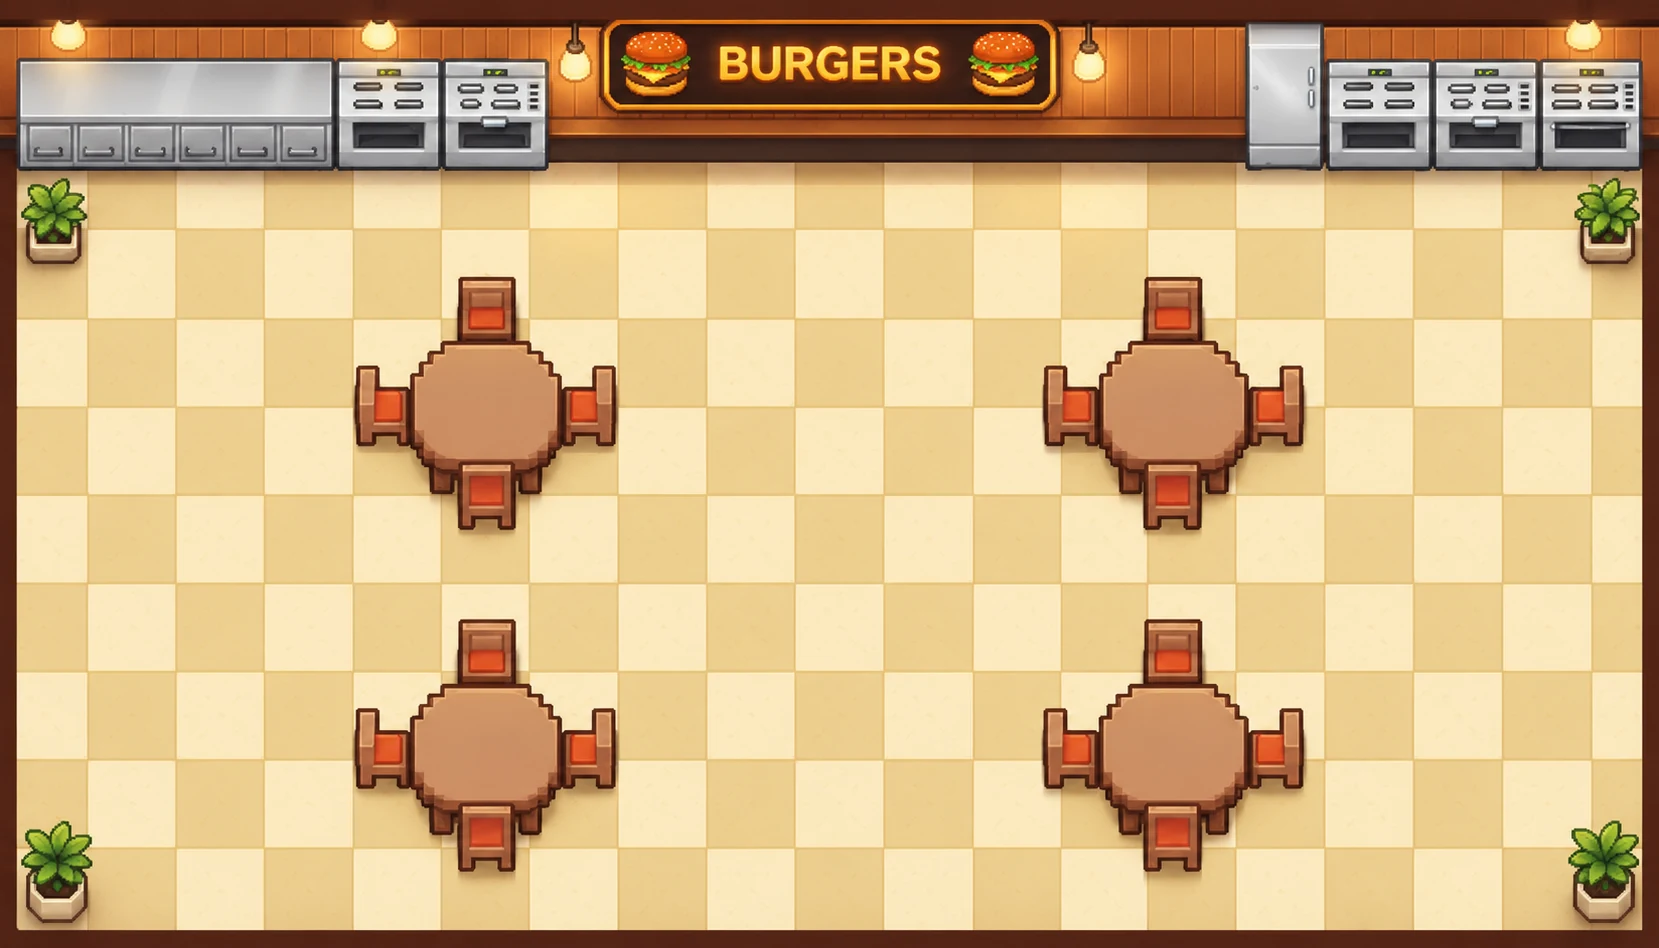
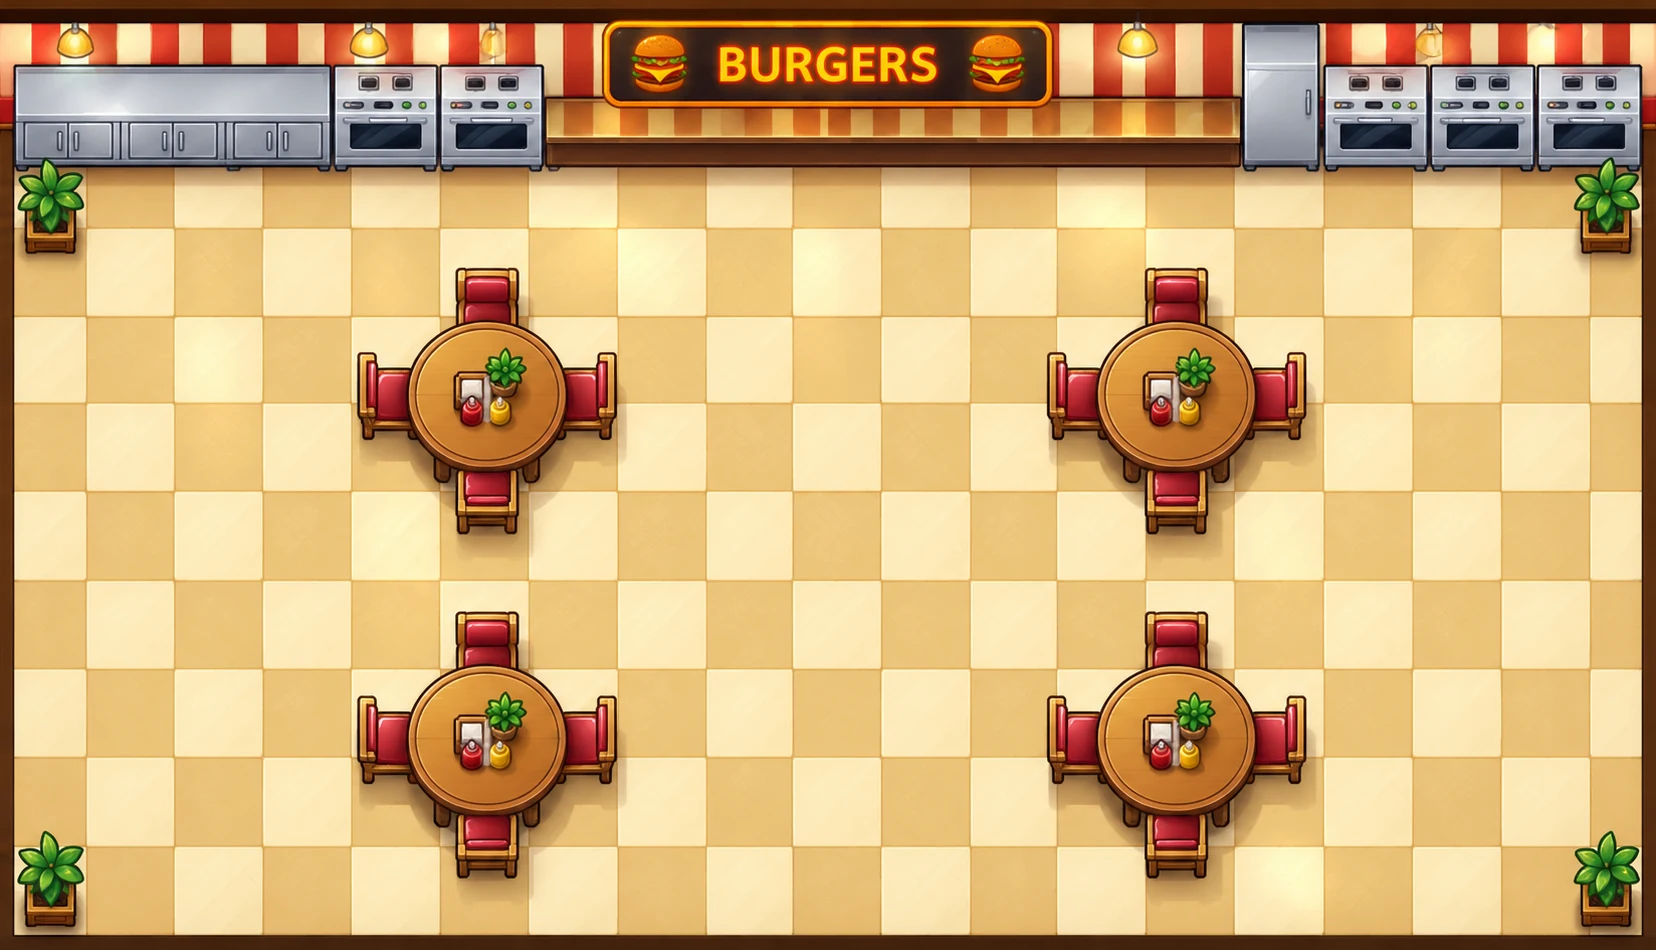
Burger: painted school background, new diner background, painted teacher/coach/director
Claude-Session: https://claude.ai/code/session_01ULB8fjd79C8Gr4zLyvVyMg

diff --git a/burger/index.html b/burger/index.html
@@ -137,7 +137,7 @@ html{-webkit-text-size-adjust:100%;text-size-adjust:100%;overscroll-behavior:non
 const BROKER='wss://broker.emqx.io:8084/mqtt', NS='byd-burger/v1/', GAME_SECS=30, BURGERS=7;
 const AW=1500,AH=860,TOP=150;
 const DINER_T=[{x:440,y:370,r:70},{x:1060,y:370,r:70},{x:440,y:680,r:70},{x:1060,y:680,r:70}];
-const SCHOOL_R=[...[380,750,1120].flatMap(cx=>[400,650].map(cy=>({x:cx-85,y:cy-38,w:170,h:76}))),{x:620,y:168,w:260,h:68}];
+const SCHOOL_R=[...[374,749,1124].flatMap(cx=>[384,618].map(cy=>({x:cx-95,y:cy-43,w:190,h:86}))),{x:612,y:160,w:276,h:84}];
 const LOCS={rifts3:{icon:'⚔',goal:0,secs:45},fish:{icon:'🎣',goal:0,secs:45},nights:{icon:'🌲',goal:0,secs:45},steal:{icon:'💎',goal:0,secs:45},arena:{icon:'🥊',goal:0,secs:45},blade:{icon:'🔥',goal:0,secs:45},hospital:{icon:'🏥',goal:0,secs:45},bike:{icon:'🚲',goal:0,secs:85},race:{icon:'🏎',goal:0,secs:45},sniper:{icon:'🎯',goal:0,secs:45},pizza:{icon:'🍕',goal:0,secs:45},ghost:{icon:'👻',goal:0,secs:45},balloon:{icon:'🎈',goal:0,secs:45},dino:{icon:'🦖',goal:0,secs:45},pirate:{icon:'🏴☠',goal:0,secs:45},train:{icon:'🚂',goal:0,secs:45},diner:{icon:'🍔',goal:7,secs:30},school:{icon:'🦶',goal:7,secs:45},soccer:{icon:'⚽',goal:5,secs:45},snow:{icon:'❄',goal:10,secs:60},box:{icon:'🥊',goal:0,secs:45},villain:{icon:'🦹',goal:20,secs:60}};
 const VROUNDS=3,VMAPS={park:[{x:750,y:520,r:100},{x:330,y:360,r:58},{x:1170,y:360,r:50},{x:330,y:715,r:44},{x:1170,y:715,r:44}],space:[{x:750,y:520,r:92},{x:360,y:350,r:52},{x:1140,y:350,r:52},{x:360,y:715,r:48},{x:1140,y:715,r:48}]};let VM='park';let TM='team';const GMS={},MP={},GART={},GCONE={};let gmV=null;const GM=()=>GMS[LOC];function mapOf(l){l=l||LOC;if(l==='train')return MP.train==='farm'?'farm':'west';if(l==='soccer')return MP.soccer==='beach'?'beach':'stadium';const g=GMS[l];return g?(MP[l]&&g.maps.includes(MP[l])?MP[l]:g.maps[0]):''}
 const TRAPS=['banana','glue','cake','stink','spring','rev'],TRAP_IC={banana:'🍌',glue:'🍯',cake:'🎂',stink:'💨',spring:'🌀',rev:'🔄'};
@@ -553,9 +553,12 @@ function teacherSprite(k,st,f){const key=k+'|'+st+'|'+f;if(tSpriteCache[key])ret
 function tHeadTop(k){const B=TBODY[k];return B.hy-B.hr-(k==='teach'?20:8)}
 function drawCone(g,tv){if(tv.st===2||GCONE[tv.k]===0)return;const R=GCONE[tv.k]?(tv.st===1?GCONE[tv.k]*1.4:GCONE[tv.k]):tv.k==='mach'?(tv.st===1?430:300):tv.st===1?380:290,a=tv.a;g.fillStyle=tv.st===1?'rgba(255,60,40,.24)':'rgba(255,215,80,.17)';
   g.beginPath();g.moveTo(tv.x,tv.y-10);g.arc(tv.x,tv.y-10,R,a-.87,a+.87);g.closePath();g.fill();g.strokeStyle=tv.st===1?'rgba(255,60,40,.5)':'rgba(255,215,80,.35)';g.lineWidth=3;g.stroke()}
-function drawTeacher(g,tv,t){if(GART[tv.k]){GART[tv.k](g,tv,t);return}const f=tv.st===0?1+Math.floor((t*9)%6):0,jump=tv.st===2?Math.abs(Math.sin(t*12))*24:0;
-  g.save();g.translate(tv.x,tv.y-jump);if(Math.cos(tv.a)<0)g.scale(-1,1);g.drawImage(teacherSprite(tv.k,tv.st,f),-90,-255,180,270);g.restore();
-  const hy=tv.y+tHeadTop(tv.k)-jump;
+const VILM={"dir":{"top":[328,328,329,328,329,316,305],"idle":4},"pe":{"top":[338,328,329,329,329,309,277],"idle":2},"teach":{"top":[350,329,330,330,329,326,292],"idle":4}},VILH={teach:150,pe:166,dir:162},VILI={};for(const k in VILM){const i=new Image();i.src='img/v_'+k+'.webp';VILI[k]=i}
+function drawTeacher(g,tv,t){if(GART[tv.k]){GART[tv.k](g,tv,t);return}const f=tv.st===0?1+Math.floor((t*9)%6):0,jump=tv.st===2?Math.abs(Math.sin(t*12))*24:0;let hy;
+  const vi=VILI[tv.k];if(vi&&vi.complete&&vi.naturalWidth){const m=VILM[tv.k],u=VILH[tv.k]/330,fi=tv.st===2?6:tv.st===1?5:tv.moving===false?m.idle:1+Math.floor(t*4.5)%4;
+    g.save();g.translate(tv.x,tv.y);g.fillStyle='rgba(0,0,0,.25)';g.beginPath();g.ellipse(0,0,tv.k==='dir'?40:34,10,0,0,7);g.fill();g.translate(0,-jump);if(Math.cos(tv.a)<0)g.scale(-1,1);g.drawImage(vi,fi*400,0,400,360,-200*u,-350*u,400*u,360*u);g.restore();hy=tv.y-m.top[fi]*u+8-jump}
+  else{g.save();g.translate(tv.x,tv.y-jump);if(Math.cos(tv.a)<0)g.scale(-1,1);g.drawImage(teacherSprite(tv.k,tv.st,f),-90,-255,180,270);g.restore();
+  hy=tv.y+tHeadTop(tv.k)-jump}
   if(tv.st===2){const s=T('ouch');g.font='900 30px Rubik, sans-serif';g.textAlign='center';g.textBaseline='middle';g.direction=/[֐-׿]/.test(s)?'rtl':'ltr';const w=g.measureText(s).width+26;
     g.fillStyle='#fff';g.strokeStyle=OUT;g.lineWidth=3;g.beginPath();g.roundRect?g.roundRect(tv.x-w/2,hy-58,w,44,16):g.rect(tv.x-w/2,hy-58,w,44);g.fill();g.stroke();g.fillStyle='#e8412c';g.fillText(s,tv.x,hy-35)}
   else if(tv.st===1){g.font='900 46px Rubik, sans-serif';g.textAlign='center';g.textBaseline='middle';g.lineWidth=6;g.strokeStyle='#fff';g.strokeText('!',tv.x,hy-30);g.fillStyle='#e8412c';g.fillText('!',tv.x,hy-30)}}
@@ -765,7 +768,8 @@ function drawCageFront(g,t,cx,cy){const x=cx??CAGE.x,y=cy??CAGE.y;
   g.lineWidth=9;for(const by of [y-140,y-62]){g.beginPath();g.moveTo(x-86,by);g.lineTo(x+86,by);g.stroke()}
   rr(g,x-44,y-174,88,30,8);g.fillStyle='#8a5a32';g.fill();g.lineWidth=3;g.strokeStyle=OUT;g.stroke();g.font='900 20px Rubik, sans-serif';g.textAlign='center';g.textBaseline='middle';g.fillStyle='#ffe08a';g.fillText('JAIL',x,y-159);g.textBaseline='alphabetic'}
 const BGDINER=new Image();BGDINER.src='img/bg_diner.webp';
-function drawFloor(g){if(LOC==='diner'&&!GM()&&BGDINER.complete&&BGDINER.naturalWidth){g.drawImage(BGDINER,0,0,AW,AH);return}const FK=GM()?LOC+TM+mapOf():LOC==='villain'?LOC+VM:LOC==='train'?LOC+TM+mapOf():LOC;if(!floorCaches[FK]){const fc=floorCaches[FK]=document.createElement('canvas');fc.width=AW;fc.height=AH;const f=fc.getContext('2d');if(LOC==='villain'){if(VM==='space')paintSpace(f);else paintPark(f)}else if(LOC==='school')paintSchool(f);else if(LOC==='soccer')paintSoccer(f);else if(LOC==='snow')paintSnow(f);else if(LOC==='box')paintBox(f);else if(GM())GM().paint(f);else if(LOC==='train')paintTrain(f);else if(LOC==='diner'&&PIX.ready)paintDiner(f);else{
+const BGSCHOOL=new Image();BGSCHOOL.src='img/bg_school.webp';
+function drawFloor(g){if(LOC==='diner'&&!GM()&&BGDINER.complete&&BGDINER.naturalWidth){g.drawImage(BGDINER,0,0,AW,AH);return}if(LOC==='school'&&!GM()&&BGSCHOOL.complete&&BGSCHOOL.naturalWidth){g.drawImage(BGSCHOOL,0,0,AW,AH);g.save();g.globalAlpha=.88;g.fillStyle='#fff';g.font='700 42px Rubik, Arial, sans-serif';g.textAlign='center';g.textBaseline='middle';g.direction='ltr';g.fillText('2 + 2 = 5 ?',AW/2-110,62);g.strokeStyle='#fff';g.lineWidth=4;g.beginPath();g.arc(AW/2+200,62,30,0,7);g.stroke();g.beginPath();g.arc(AW/2+200,66,17,.3,Math.PI-.3);g.stroke();g.fillRect(AW/2+188,48,6,8);g.fillRect(AW/2+206,48,6,8);g.restore();return}const FK=GM()?LOC+TM+mapOf():LOC==='villain'?LOC+VM:LOC==='train'?LOC+TM+mapOf():LOC;if(!floorCaches[FK]){const fc=floorCaches[FK]=document.createElement('canvas');fc.width=AW;fc.height=AH;const f=fc.getContext('2d');if(LOC==='villain'){if(VM==='space')paintSpace(f);else paintPark(f)}else if(LOC==='school')paintSchool(f);else if(LOC==='soccer')paintSoccer(f);else if(LOC==='snow')paintSnow(f);else if(LOC==='box')paintBox(f);else if(GM())GM().paint(f);else if(LOC==='train')paintTrain(f);else if(LOC==='diner'&&PIX.ready)paintDiner(f);else{
   const tile=75;for(let y=0;y<AH;y+=tile)for(let x=0;x<AW;x+=tile){f.fillStyle=((x+y)/tile)%2?'#efe6d6':'#d9cbb3';f.fillRect(x,y,tile,tile)}
   // counter
   f.fillStyle='#7a3b1d';f.fillRect(0,0,AW,TOP-24);f.fillStyle='#a8582c';f.fillRect(0,TOP-44,AW,20);f.fillStyle='#5e2c14';f.fillRect(0,TOP-24,AW,10);
